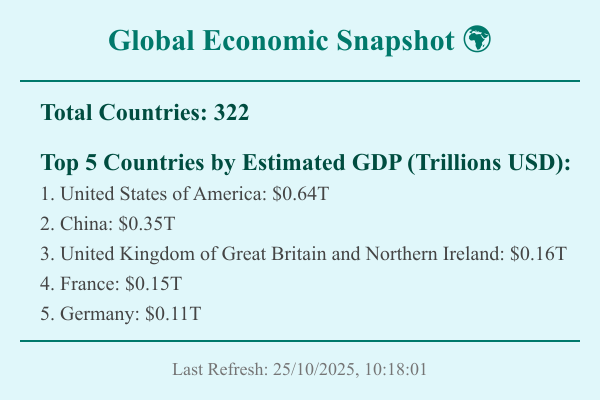
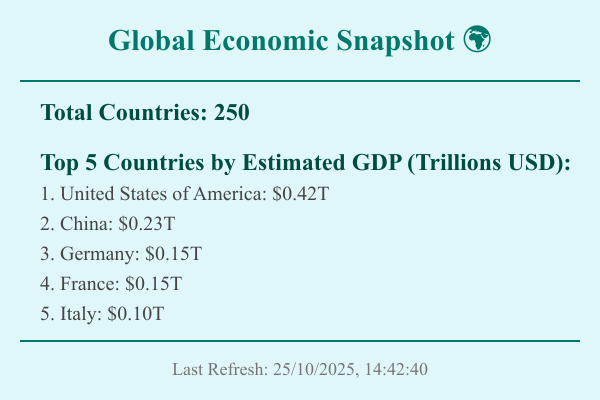
update on country project

diff --git a/controller/countryController.js b/controller/countryController.js
@@ -1,14 +1,24 @@
-const Country = require('../models/Country.js');
+// const Country = require('../models/Country.js');
 const { fetchCountries, fetchCountrieExchangerates } = require('../services/countryService.js');
 const  computeEstimatedGDP  = require('../utils/countriesUtils.js');
-// const { generateSummaryImage } = require('../utils/imageGenerator.js');
 const fs = require('fs');
 const generateSummaryImage = require('../utils/imageGenerator.js');
-// import moment from 'moment';
+const { getPool } = require('../config/db.js');
 
+// let pool;
+// pool = getPool()
 let lastRefreshedAt = null;
 
 const refreshCountries = async (req, res) => {
+    let pool;
+    try {
+        pool = getPool(); 
+    } catch (e) {
+        // If the pool isn't ready, return a 500 error gracefully
+        return res.status(500).json({ error: 'Database not initialized' });
+    }
+    console.log(pool)
+    if (!pool) return res.status(500).json({ error: 'Database not initialized' })
     try {
         const [countriesData, rates] = await Promise.all([
             fetchCountries(),
@@ -22,7 +32,6 @@ const refreshCountries = async (req, res) => {
             const currency = country.currencies && country.currencies.length > 0 ? country.currencies[0].code : null;
             const exchangeRate = currency && rates[currency] ? rates[currency] : null;
             const estimatedGDP = exchangeRate ? computeEstimatedGDP(country.population, exchangeRate) : 0;
-
             const data = {
                 name: country.name,
                 capital: country.capital || null,
@@ -35,13 +44,28 @@ const refreshCountries = async (req, res) => {
                 last_refreshed_at: new Date().toISOString()
             };
 
-            await Country.findOneAndUpdate({ name: new RegExp(`^${country.name}$`, 'i') }, data, { upsert: true, new: true });
+            // await Country.findOneAndUpdate({ name: new RegExp(`^${country.name}$`, 'i') }, data, { upsert: true, new: true });
+
+            const sql = `
+                INSERT INTO countries (
+                    name, capital, region, population, currency_code, exchange_rate, estimated_gdp, flag_url, last_refreshed_at
+                ) VALUES (?, ?, ?, ?, ?, ?, ?, ?, ?)
+                ON DUPLICATE KEY UPDATE
+                    capital=VALUES(capital), region=VALUES(region), population=VALUES(population), 
+                    currency_code=VALUES(currency_code), exchange_rate=VALUES(exchange_rate), 
+                    estimated_gdp=VALUES(estimated_gdp), flag_url=VALUES(flag_url), last_refreshed_at=VALUES(last_refreshed_at);
+            `;
+
+            const values = Object.values(data);
+            await pool.query(sql, values);
         });
 
         await Promise.all(ops);
 
-        const allCountries = await Country.find();
-        lastRefreshedAt = new Date().toISOString();
+        // const allCountries = await Country.find();
+        const [allCountriesRows]  = await pool.query('SELECT * FROM countries');
+        const allCountries = allCountriesRows
+        lastRefreshedAt = new Date().toISOString()
         await generateSummaryImage(allCountries, lastRefreshedAt);
 
         res.json({ message: 'Countries refreshed successfully', total: allCountries.length, last_refreshed_at: lastRefreshedAt });
@@ -52,16 +76,39 @@ const refreshCountries = async (req, res) => {
 };
 
 const getCountries = async (req, res) => {
+    if (!pool) return res.status(500).json({ error: 'Database not initialized' })
     try {
         const { region, currency, sort } = req.query;
-        const query = {};
-        if (region) query.region = region;
-        if (currency) query.currency_code = currency;
+        const params = [];
+        const conditions = [];
+        // const query = {};
+        // if (region) query.region = region;
+        // if (currency) query.currency_code = currency;
 
-        let sortOpt = {};
-        if (sort === 'gdp_desc') sortOpt.estimated_gdp = -1;
+        // let sortOpt = {};
+        // if (sort === 'gdp_desc') sortOpt.estimated_gdp = -1;
 
-        const countries = await Country.find(query).sort(sortOpt);
+        // const countries = await Country.find(query).sort(sortOpt);
+        if (region) {
+            conditions.push('region = ?');
+            params.push(region);
+        }
+        if (currency) {
+            conditions.push('currency_code = ?');
+            params.push(currency);
+        }
+
+        if (conditions.length > 0) {
+            sql += ' WHERE ' + conditions.join(' AND ');
+        }
+
+        if (sort === 'gdp_desc') {
+            sql += ' ORDER BY estimated_gdp DESC';
+        } else {
+            sql += ' ORDER BY name ASC';
+        }
+
+        const [countries] = await pool.query(sql, params);
 
         res.json(countries);
     } catch (err) {
@@ -70,25 +117,53 @@ const getCountries = async (req, res) => {
 };
 
  const getCountryByName = async (req, res) => {
-    const name = req.params.name;
-    const country = await Country.findOne({ name: new RegExp(`^${name}$`, 'i') });
-    if (!country) return res.status(404).json({ error: 'Country not found' });
-    res.json(country);
+    try{   
+        if (!pool) return res.status(500).json({ error: 'Database not initialized' })
+        const name = req.params.name;
+        // const country = await Country.findOne({ name: new RegExp(`^${name}$`, 'i') });
+        const [row] = await await pool.query('SELECT * FROM countries WHERE name LIKE ? LIMIT 1', [name]);
+        const country = row[0]
+        if (!country) return res.status(404).json({ error: 'Country not found' });
+        res.json(country);
+    }catch(error){
+        console.error(err.message);
+        res.status(500).json({ error: 'Internal server error' });
+    }
 };
 
  const deleteCountry = async (req, res) => {
-    const name = req.params.name;
-    const country = await Country.findOneAndDelete({ name: new RegExp(`^${name}$`, 'i') });
-    if (!country) return res.status(404).json({ error: 'Country not found' });
-    res.json({ message: `${name} deleted successfully` });
+    if (!pool) return res.status(500).json({ error: 'Database not initialized' });
+    try{
+        const name = req.params.name;
+        // const country = await Country.findOneAndDelete({ name: new RegExp(`^${name}$`, 'i') });
+        const [result] = await pool.query('DELETE FROM countries WHERE name = ?', [name]);
+
+        // if (!country) return res.status(404).json({ error: 'Country not found' });
+        if (result.affectedRows === 0) 
+            return res.status(404).json({ error: 'Country not found' })
+
+        res.json({ message: `${name} deleted successfully` });
+    }catch(error){
+        console.error(err.message);
+        res.status(500).json({ error: 'Internal server error' });
+    }
 };
 
  const getStatus = async (req, res) => {
-    const total = await Country.countDocuments();
-    res.json({
-        total_countries: total,
-        last_refreshed_at: lastRefreshedAt,
-    });
+    if (!pool) return res.status(500).json({ error: 'Database not initialized' });
+    try{
+        // const total = await Country.countDocuments();
+        const [rows] = await pool.query('SELECT COUNT(*) AS total FROM countries');
+        const total = rows[0].total;
+        res.json({
+            total_countries: total,
+            last_refreshed_at: lastRefreshedAt,
+        });
+
+    }catch(error){
+        console.error(err.message);
+        res.status(500).json({ error: 'Internal server error' });
+    }
 };
 
  const getSummaryImage = async (req, res) => {

diff --git a/config/db.js b/config/db.js
@@ -5,25 +5,76 @@ require('dotenv').config()
 let pool;
 const connect = async () => {
     try{
-        pool = mysql.createPool({
-            host: process.env.MYSQL_HOST || 'localhost',
-            user: process.env.MYSQL_USER,
-            password: process.env.MYSQL_PASSWORD,
-            database: process.env.MYSQL_DATABASE,
-            waitForConnections: true,
-            connectionLimit: 10,
-            queueLimit: 0
-        });
-        await pool.query('SELECT 1 + 1 AS solution');
+        const connectionConfig = {}
+        if (process.env.MYSQL_URI) {
+            console.log('Attempting connection using MYSQL_URI...');
+            connectionConfig.uri = process.env.MYSQL_URI;
+        } else {
+            console.log('MYSQL_URI not found. Falling back to individual parameters...');
+            connectionConfig.host = process.env.MYSQL_HOST || 'localhost';
+            connectionConfig.user = process.env.MYSQL_USER;
+            connectionConfig.password = process.env.MYSQL_PASSWORD;
+            connectionConfig.database = process.env.MYSQL_DATABASE;
+        }
+        // pool = mysql.createPool({
+        //     host: process.env.MYSQL_HOST || 'localhost',
+        //     user: process.env.MYSQL_USER,
+        //     password: process.env.MYSQL_PASSWORD,
+        //     database: process.env.MYSQL_DATABASE,
+        //     waitForConnections: true,
+        //     connectionLimit: 10,
+        //     queueLimit: 0
+        // });
+
+        connectionConfig.waitForConnections = true;
+        connectionConfig.connectionLimit = 10;
+        connectionConfig.queueLimit = 0;
+
+        pool = mysql.createPool(connectionConfig)
+        const createTable = `
+            CREATE TABLE IF NOT EXISTS countries (
+                -- The country name, used as the primary identifier for updates/lookups
+                name VARCHAR(255) NOT NULL PRIMARY KEY,
+                
+                -- Basic geographic data, nullable
+                capital VARCHAR(255) NULL,
+                region VARCHAR(255) NULL,
+                
+                -- Numeric data
+                population BIGINT NOT NULL,
+                currency_code VARCHAR(10) NULL,
+                
+                -- Floating-point numbers for financial metrics
+                exchange_rate DOUBLE NULL, 
+                estimated_gdp DOUBLE NULL, 
+                
+                -- URL for the flag image
+                flag_url TEXT NULL,
+                
+                -- Timestamp of the last successful refresh
+                last_refreshed_at VARCHAR(255) NOT NULL
+            );
+        `
+        await pool.query(createTable)
+        // await pool.query(`DROP TABLE IF EXISTS countries`)
+        // await pool.query('SELECT 1 + 1 AS solution');
         console.log('DB connected via MySQL Pool');
+        return pool
     }catch(error){
-        console.error('MongoDB connection failed:', error.message)
+        console.error('Database connection failed:', error.message)
         process.exit(1)
     }
 }
 
+const getPool = () => {
+    if (!pool) {
+      throw new Error('Database not initialized. Call connect() first.');
+    }
+    return pool;
+};
+
 
 module.exports = {
     connect,
-    pool
+    getPool 
 }

diff --git a/index.js b/index.js
@@ -1,67 +1,40 @@
 // const { default: axios } = require("axios");
 const express = require("express")
 const bodyParser = require("body-parser")
-const router = require("./routes/stringRoutes")
-const connectDB = require('./config/db')
+// const router = require("./routes/stringRoutes")
+const {connect} = require('./config/db')
 const fs = require('fs')
 const countryRoutes = require('./routes/countryRoutes')
 
-const app = express()
-// connectDB();
-app.use(bodyParser.json())
-app.use('/', countryRoutes)
-
-app.use(express.json())
-
-if (!fs.existsSync('cache')) fs.mkdirSync('cache')
+// 
 
 
-// app.use('/strings', router)
+const startServer = async () => {
+    try {
+        await connect(); // ✅ Waits for the pool to be created
+        
+        const app = express()
 
-app.use((err, req, res, next) => {
-    console.error(err.stack);
-    res.status(500).json({ error: 'Internal server error' });
-});
+        app.use(bodyParser.json())
+        app.use(express.json())
+        app.use('/', countryRoutes) // This is only loaded AFTER connect() is successful
 
+        if (!fs.existsSync('cache')) fs.mkdirSync('cache')
 
-// app.use((req, res) => {
-//     res.status(404).json({ error: 'Not Found' });
-// });
+        app.use((err, req, res, next) => {
+            console.error(err.stack);
+            res.status(500).json({ error: 'Internal server error' });
+        });
 
-// app.get('/me', async (req, res) => {
-//     try{
-//         const resp = await axios.get("https://catfact.ninja/fact", {
-//             timeout: 3000
-//         })
-//         console.log(resp)
-//         res.status(200).json({
-//             "status": "success",
-//             "user": {
-//               "email": "emma08062602618@gmail.com",
-//               "name": "Michael Emmanuel",
-//               "stack": "Node.js/Express"
-//             },
-//             "timestamp": new Date().toISOString(),
-//             "fact": resp.data.fact,
-//         })
-//     }catch(error){
-//         console.error('Error fetching cat fact:', error.message);
-//         res.status(504).json({
-//             "status": "success",
-//             "user": {
-//                 "email": "emma08062602618@gmail.com",
-//                 "name": "Michael Emmanuel",
-//                 "stack": "Node.js/Express"
-//             },
-//             "timestamp":  new Date().toISOString(),
-//             "fact": "No Cat Facts"
-//         })
-//     }
-// });
+        const PORT = process.env.PORT || 3000;
+        app.listen(PORT, () => {
+            console.log(`Server is running on http://localhost:${PORT}`);
+        })
+    } catch (error) {
+        console.error('Failed to start server:', error.message);
+        process.exit(1);
+    }
+}
 
 
-
-
-app.listen(3000, () => {
-    console.log("Server is running on http://localhost:3000");
-})
+startServer()
